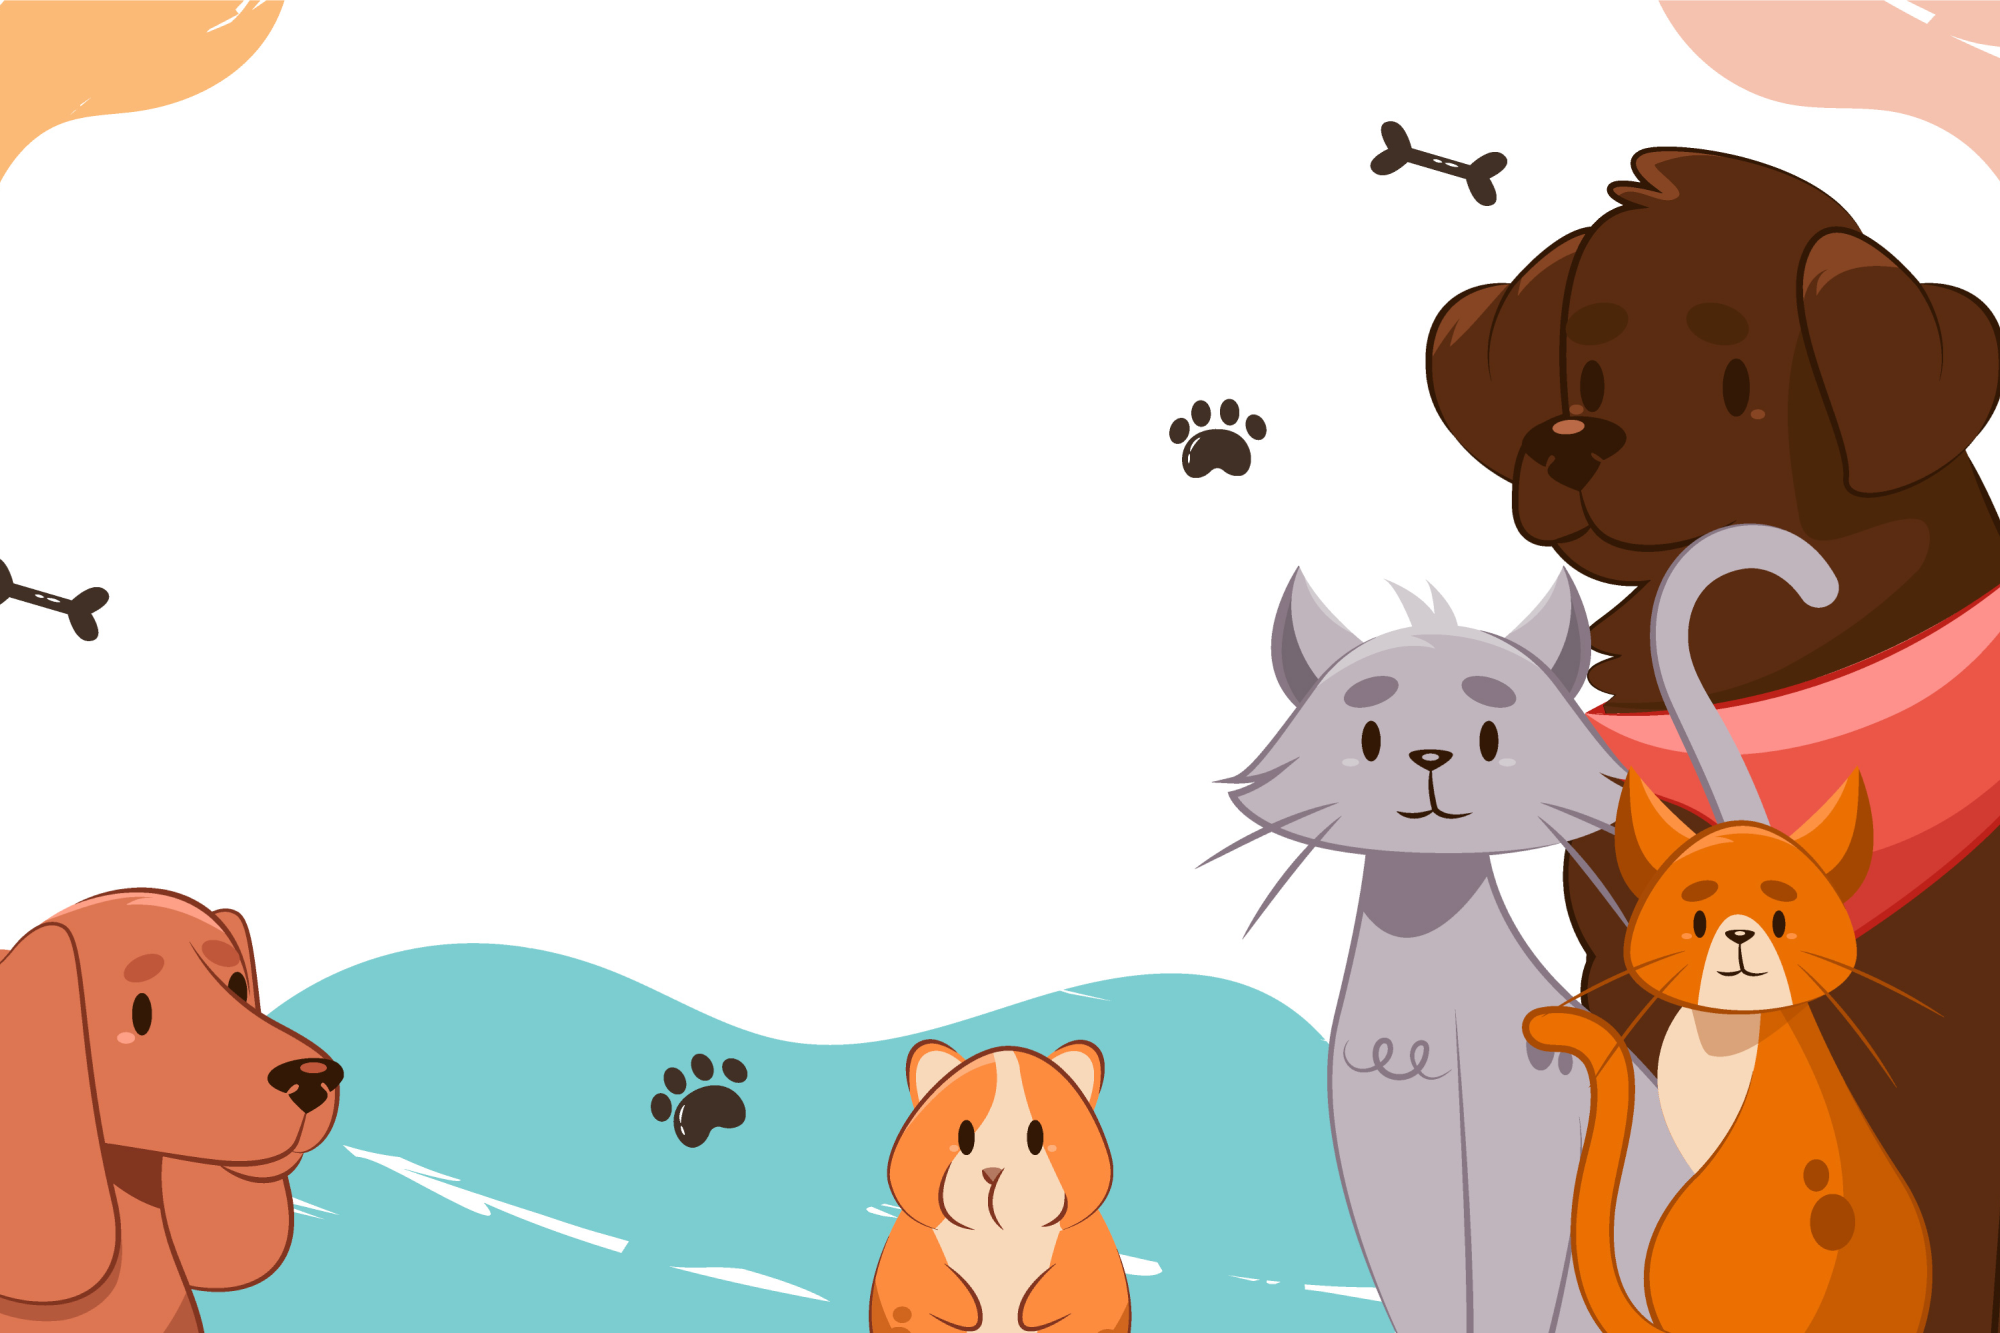
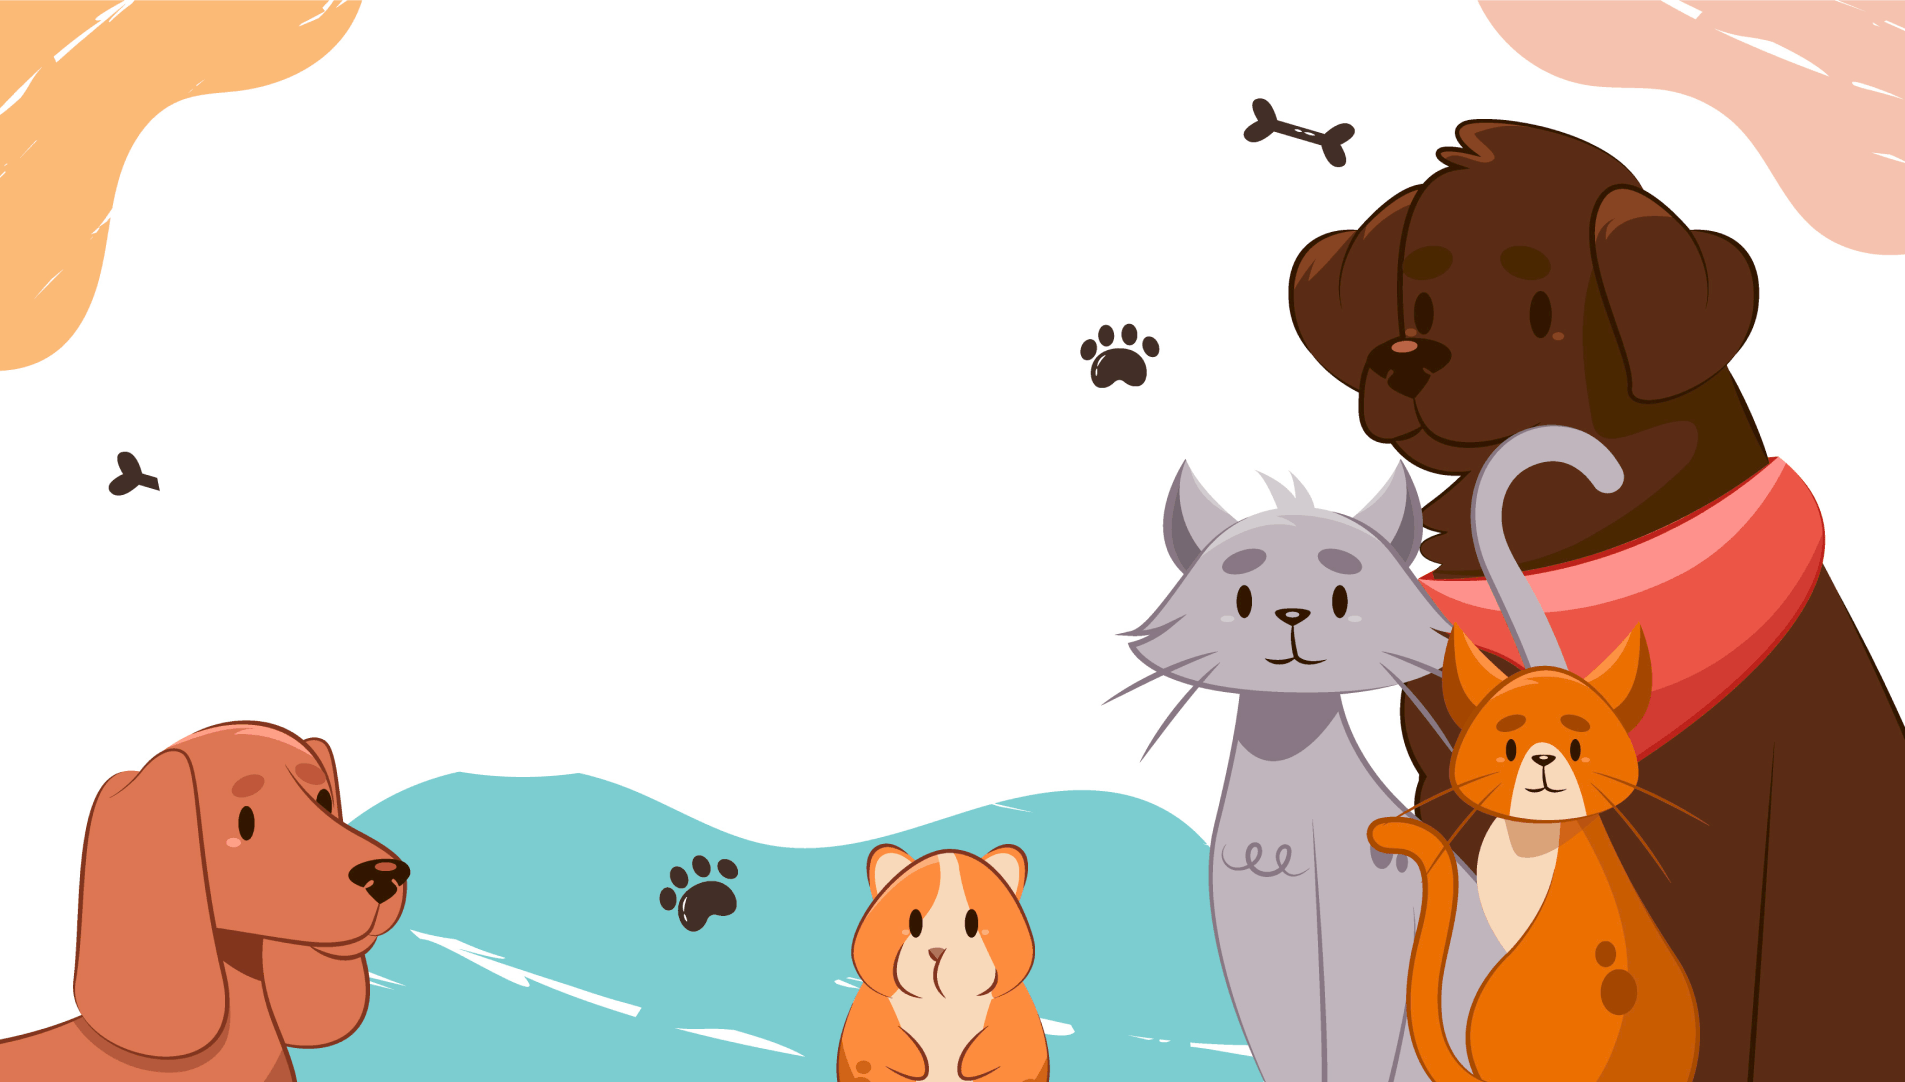
footer-links

diff --git a/src/app/Partie-Client/bas-de-page-client/bas-de-page-client.component.html b/src/app/Partie-Client/bas-de-page-client/bas-de-page-client.component.html
@@ -1,100 +1,121 @@
- <!-- ======= Footer ======= -->
-  <footer id="footer" style="background-color:rgb(90, 112, 234);" class="footer">
-   
-    <div class="footer-top" style="background-color: rgb(245, 244, 244);">
-      <div class="container">
-        <div class="row gy-4">
-          <div class="col-lg-5 col-md-12 footer-info">
-            <a href="index.html" class="logo d-flex align-items-center">
-              <img src="assets/img/logo.png" alt="" />
-              <span>FlexStart</span>
+<link
+  rel="stylesheet"
+  href="https://cdnjs.cloudflare.com/ajax/libs/font-awesome/5.15.4/css/all.min.css"
+/>
+
+<footer id="footer" style="background-color: rgb(106, 124, 225)" class="footer">
+  <div class="footer-top" style="background-color: rgb(245, 244, 244)">
+    <div class="container">
+      <div class="row gy-4">
+        <div class="col-lg-6 col-md-12 footer-info">
+          <a href="index.html" class="logo d-flex align-items-center">
+            <img src="assets/img/logo.png" alt="" />
+            <span >PETSHOPS</span>
+          </a>
+          <p style="margin-top: 28px">
+            <i class="fa fa-arrow-right" style="color:  rgba(250, 183, 145, 0.984);"></i>
+            Votre destination de choix pour tout ce qui concerne les animaux de
+            compagnie ! Nous offrons une gamme complète de produits et services
+            de qualité supérieure pour répondre à tous vos besoins en matière de
+            soins pour animaux. Avec une équipe passionnée et compétente, nous
+            sommes là pour vous fournir des conseils d'experts et des
+            orientations afin d'assurer le bien-être optimal de vos compagnons
+            bien-aimés.
+          </p>
+          <div class="social-links mt-3">
+            <a href="#" class="twitter"><i class="bi bi-twitter"></i></a>
+            <a href="#" class="facebook"><i class="bi bi-facebook"></i></a>
+            <a href="#" class="instagram"><i class="bi bi-instagram"></i></a>
+            <a href="#" class="linkedin"><i class="bi bi-linkedin"></i></a>
+          </div>
+        </div>
+
+        <div class="col-lg-2 col-6 footer-links">
+          <h4>LIENS</h4>
+          <ul>
+            <li>
+              <i class="bi bi-chevron-right"></i>
+              <a routerLink="/client/acceuil-client">Acceuil</a>
+            </li>
+            <li>
+              <i class="bi bi-chevron-right"></i>
+              <a routerLink="/client/apropos-client">A propos</a>
+            </li>
+            <li>
+              <i class="bi bi-chevron-right"></i>
+              <a routerLink="/client/categories-client">Categories</a>
+            </li>
+            <li>
+              <i class="bi bi-chevron-right"></i>
+              <a routerLink="/client/specials-client">Animaux spéciaux</a>
+            </li>
+          </ul>
+        </div>
+
+        <div class="col-lg-3 col-md-12 footer-contact text-center">
+          <h4>Contact</h4>
+
+          <strong>Telephone </strong>
+          <p class="contactfooter">+33 6298878999</p>
+
+          <strong>Email</strong>
+          <p class="contactfooter" style="padding: 2px">
+            petshops52266@gmail.com
+          </p>
+        </div>
+        <div
+          class="col-lg-1 col-md-12 footer-contact text-center text-md-start"
+        >
+          <!-- Github -->
+          <div>
+            <a role="button">
+              <img
+                src="../../../assets/images/git-logo.png"
+                alt=""
+                style="width: 32px; height: 32px"
+              />
             </a>
-            <p>
-              Cras fermentum odio eu feugiat lide par naso tierra. Justo eget
-              nada terra videa magna derita valies darta donna mare fermentum
-              iaculis eu non diam phasellus.
-            </p>
-            <div class="social-links mt-3">
-              <a href="#" class="twitter"><i class="bi bi-twitter"></i></a>
-              <a href="#" class="facebook"><i class="bi bi-facebook"></i></a>
-              <a href="#" class="instagram"><i class="bi bi-instagram"></i></a>
-              <a href="#" class="linkedin"><i class="bi bi-linkedin"></i></a>
-            </div>
-          </div>
+            <!-- Facebook -->
+            <a role="button">
+              <img
+                src="../../../assets/images/facebook-logo.png"
+                alt=""
+                style="width: 50px; height: 49px"
+              />
+            </a>
 
-          <div class="col-lg-2 col-6 footer-links">
-            <h4>Useful Links</h4>
-            <ul>
-              <li><i class="bi bi-chevron-right"></i> <a href="#">Home</a></li>
-              <li>
-                <i class="bi bi-chevron-right"></i> <a href="#">About us</a>
-              </li>
-              <li>
-                <i class="bi bi-chevron-right"></i> <a href="#">Services</a>
-              </li>
-              <li>
-                <i class="bi bi-chevron-right"></i>
-                <a href="#">Terms of service</a>
-              </li>
-              <li>
-                <i class="bi bi-chevron-right"></i>
-                <a href="#">Privacy policy</a>
-              </li>
-            </ul>
-          </div>
-
-          <div class="col-lg-2 col-6 footer-links">
-            <h4>Our Services</h4>
-            <ul>
-              <li>
-                <i class="bi bi-chevron-right"></i> <a href="#">Web Design</a>
-              </li>
-              <li>
-                <i class="bi bi-chevron-right"></i>
-                <a href="#">Web Development</a>
-              </li>
-              <li>
-                <i class="bi bi-chevron-right"></i>
-                <a href="#">Product Management</a>
-              </li>
-              <li>
-                <i class="bi bi-chevron-right"></i> <a href="#">Marketing</a>
-              </li>
-              <li>
-                <i class="bi bi-chevron-right"></i>
-                <a href="#">Graphic Design</a>
-              </li>
-            </ul>
-          </div>
-
-          <div
-            class="col-lg-3 col-md-12 footer-contact text-center text-md-start"
-          >
-            <h4>Contact Us</h4>
-            <p>
-              A108 Adam Street <br />
-              New York, NY 535022<br />
-              United States <br /><br />
-              <strong>Phone:</strong> +1 5589 55488 55<br />
-              <strong>Email:</strong> info@example.com<br />
-            </p>
+            <!-- insta -->
+            <a role="button">
+              <img
+                src="../../../assets/images/instagram-logo.png"
+                alt=""
+                style="width: 30px; height: 30px"
+              />
+            </a>
+            <!-- Linkedin -->
+            <a role="button">
+              <img
+                src="../../../assets/images/linkedin-logo.png"
+                alt=""
+                style="width: 40px; height: 40px"
+              />
+            </a>
           </div>
         </div>
       </div>
     </div>
+  </div>
 
-    <div class="container">
-      <div class="copyright">
-        &copy; Copyright <strong><span>FlexStart</span></strong
-        >. All Rights Reserved
-      </div>
-      <div class="credits">
-        <!-- All the links in the footer should remain intact. -->
-        <!-- You can delete the links only if you purchased the pro version. -->
-        <!-- Licensing information: https://bootstrapmade.com/license/ -->
-        <!-- Purchase the pro version with working PHP/AJAX contact form: https://bootstrapmade.com/flexstart-bootstrap-startup-template/ -->
-        Designed by <a href="https://bootstrapmade.com/">BootstrapMade</a>
-      </div>
+  <div class="container">
+    <div class="copyright">
+      © 2024 Copyright by PetShops ,
+      <a
+        routerLink="/termes-conditions"
+        style="cursor: pointer; color: rgba(250, 183, 145, 0.984)"
+      >
+        <B>termes & condition générales</B></a
+      >
     </div>
-  </footer>
-  <!-- End Footer -->
+  </div>
+</footer>
+

diff --git a/src/app/Partie-Client/acceuil-client/acceuil-client.component.html b/src/app/Partie-Client/acceuil-client/acceuil-client.component.html
@@ -16,9 +16,9 @@
       <div class="row">
         <div class="col-lg-8 d-flex flex-column justify-content-center">
           <h1 style="margin-left: 27px; font-size: 55px">
-            Bienvenue sur PetShop Online !
+            Bienvenue sur PetShop   Enligne !
           </h1>
-          <h5 style="margin-left: 55px">
+          <h5 style="margin-left: 55px;margin-top: 10px;">
             Votre référence professionnelle pour l'achat de chiens, de chats et
             d'accessoires haut de gamme : Découvrez notre sélection
             minutieusement choisie pour offrir à vos animaux de compagnie le
@@ -26,12 +26,14 @@
           </h5>
           <div>
             <div class="text-center text-lg-start">
+
               <a
-                href="#about"
+                routerLink="/client/categories-client"
                 class="btn-get-started d-inline-flex align-items-center justify-content-center align-self-center"
               >
                 <span>COMMENCER</span>
                 <i class="fa fa-arrow-right"></i>
+
               </a>
             </div>
           </div>
@@ -66,7 +68,7 @@
               </p>
               <div class="text-center text-lg-start">
                 <a
-                  href="#"
+                   routerLink="/client/apropos-client"
                   class="btn-read-more d-inline-flex align-items-center justify-content-center align-self-center"
                 >
                   <span>Read More</span>
@@ -82,9 +84,9 @@
             data-aos-delay="200"
           >
             <img
-              src="../../../assets/images/pdl5_8a08_220223.jpg"
+              src="../../../assets/images/image-acceuil-apropos.jpg"
               class="img-fluid"
-              alt=""
+              alt="animals"
             />
           </div>
         </div>
@@ -92,6 +94,7 @@
     </section>
     <!-- End About Section -->
 
+    
     <!-- ======= Team Section ======= -->
     <section id="team" class="team">
       <div class="container" data-aos="fade-up">
@@ -99,7 +102,6 @@
           <h2>Team</h2>
           <p>Our hard working team</p>
         </header>
-
         <div class="row gy-4">
           <div
             class="col-lg-3 col-md-6 d-flex align-items-stretch"
@@ -131,7 +133,6 @@
               </div>
             </div>
           </div>
-
           <div
             class="col-lg-3 col-md-6 d-flex align-items-stretch"
             data-aos="fade-up"
@@ -162,7 +163,6 @@
               </div>
             </div>
           </div>
-
           <div
             class="col-lg-3 col-md-6 d-flex align-items-stretch"
             data-aos="fade-up"
@@ -193,7 +193,6 @@
               </div>
             </div>
           </div>
-
           <div
             class="col-lg-3 col-md-6 d-flex align-items-stretch"
             data-aos="fade-up"

diff --git a/src/app/Partie-Client/bas-de-page-client/bas-de-page-client.component.css b/src/app/Partie-Client/bas-de-page-client/bas-de-page-client.component.css
@@ -1,6 +1,20 @@
 /*--------------------------------------------------------------
 # Footer
 --------------------------------------------------------------*/
+a {
+    color: #4154f1;
+    text-decoration: none;
+    cursor: pointer;
+}
+.contactfooter{
+    border: 2px solid rgb(68, 96, 236);
+    background-color: aliceblue;
+    border-radius: 20px;
+}
+a:hover {
+    color: #717ff5;
+    text-decoration: none;
+}
 .footer {
     background: #f6f9ff;
     padding: 0 0 30px 0;
@@ -113,7 +127,9 @@
 .footer .footer-top .social-links a:hover {
     color: #012970;
 }
-
+.titrepet{
+    color: rgba(250, 183, 145, 0.984);
+}
 .footer .footer-top h4 {
     font-size: 16px;
     font-weight: bold;
@@ -168,12 +184,12 @@
 .footer .copyright {
     text-align: center;
     padding-top: 30px;
-    color: #012970;
+    color: #ffffff;
 }
 
 .footer .credits {
     padding-top: 10px;
     text-align: center;
     font-size: 13px;
-    color: #012970;
+    color: #ffffff;
 }

diff --git a/src/app/Partie-Client/menu-client/menu-client.component.css b/src/app/Partie-Client/menu-client/menu-client.component.css
@@ -299,7 +299,7 @@ section {
     color: #fff;
 }
 
-@media (max-width: 1200px) {
+@media (max-width: 900px) {
     .mobile-nav-toggle {
         display: block;
     }
@@ -333,13 +333,17 @@ section {
 }
 
 .navbar-mobile .mobile-nav-toggle {
+
     position: absolute;
     top:   20px;
     right: 15px;
-color: #ec5519d1;}
+    color: #ec5519d1;
+
+}
 
 .navbar-mobile ul {
-display: flex;
+
+    display: flex;
     flex-direction: column;
     align-items: center;
     /* Center items horizontally */
@@ -360,9 +364,11 @@ display: flex;
 
 .navbar-mobile a,
 .navbar-mobile a:focus {
+
     padding: 10px 20px;
     font-size: 15px;
     color: #012970;
+    
 }
 
 .navbar-mobile a:hover,

diff --git a/src/app/Partie-Client/acceuil-client/acceuil-client.component.css b/src/app/Partie-Client/acceuil-client/acceuil-client.component.css
@@ -81,7 +81,7 @@ section {
 .hero {
     width: 100%;
     height: 100vh;
-    background-image: url('../../../assets/images/test1.png');
+    background-image: url('../../../assets/images/image-background-acceuil.png');
     background-size: cover;
 }
 
